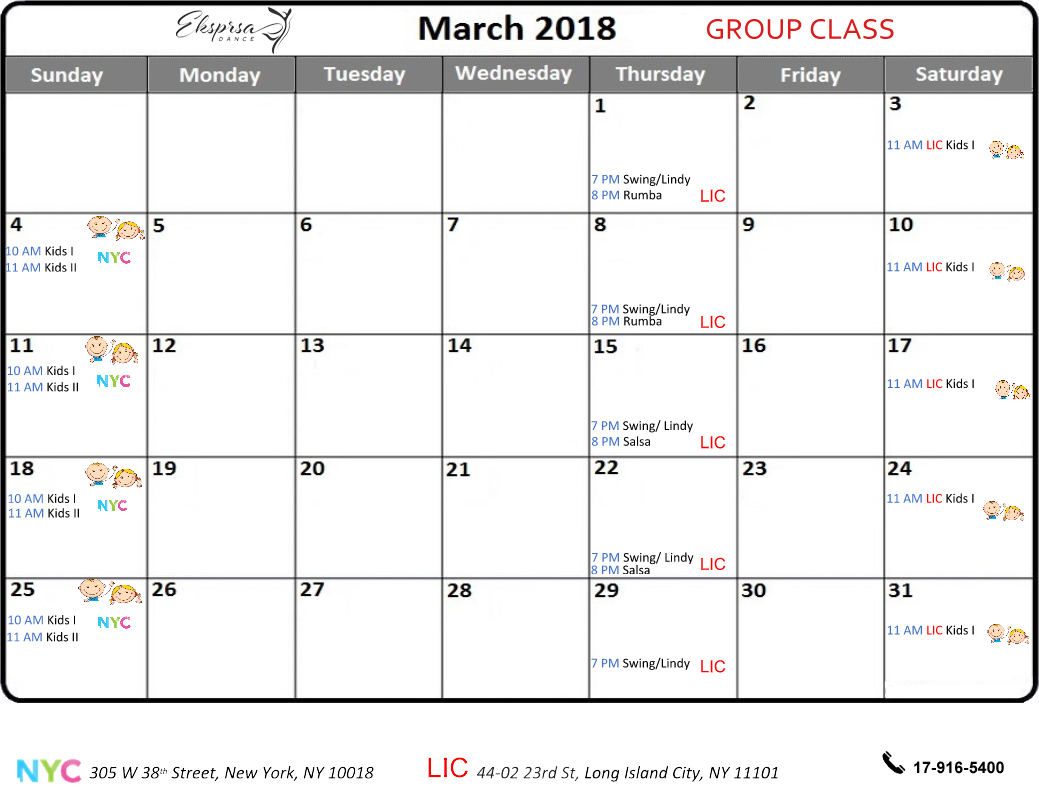
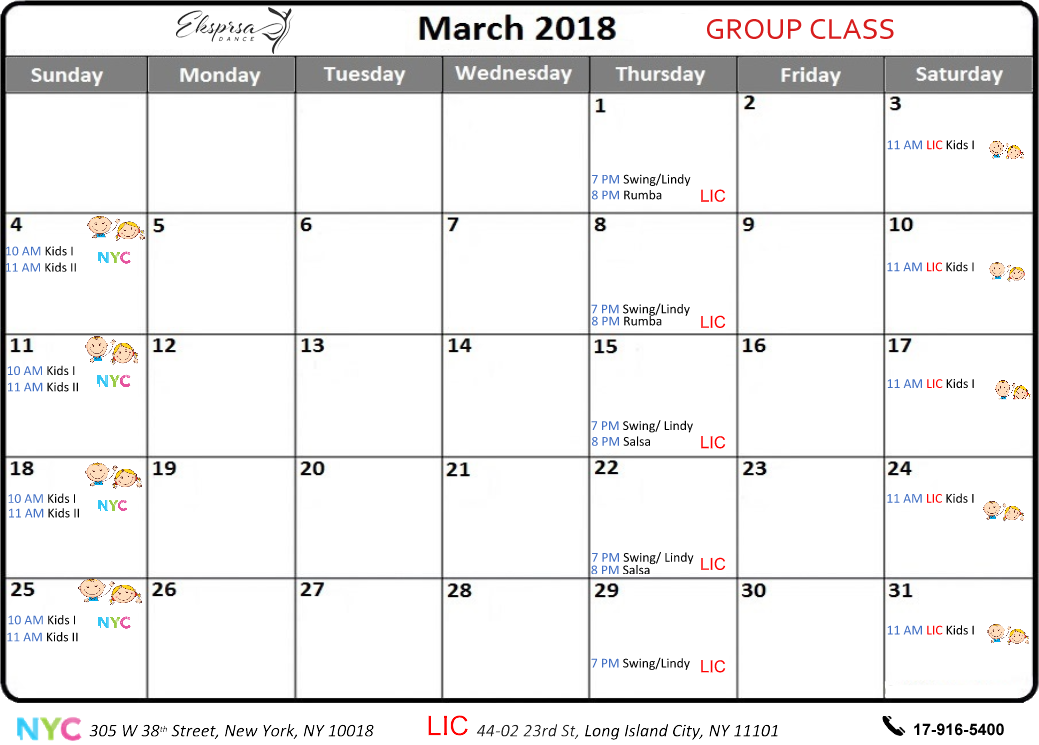
update styling and schedule sizing

Changed region(s): [[0.0, 0.2161, 1.0, 1.0], [0.0, 0.0, 1.0, 0.2161], [0.9856, 0.0, 1.0, 0.0309]]

diff --git a/docs/content/index.html b/docs/content/index.html
@@ -331,12 +331,12 @@
   <button onclick="closeSchedule()" type="button" class="close schedule-close-button mb-1">
     &times; Close Schedule
   </button>
-  <img style="max-width: 100%;" src="/images/schedule.png" />
-</section>
+  <img style="max-width: 44em; width: 100%;" src="/images/schedule.png" />
+</section> 
     </section>
 	<footer class="footer d-flex">
 	<section class="align-self-center m-auto">
-		<div class="copyright">
+		<div class="copyright text-center">
 			<span>&#169 All rights reserved Eksprsa Dance Ballroom Dance Studio, New York (2017)</span>
 		</div>
 	</section>

diff --git a/src/jekyll/content/index.html b/src/jekyll/content/index.html
@@ -296,5 +296,5 @@ permalink: /content/
   <button onclick="closeSchedule()" type="button" class="close schedule-close-button mb-1">
     &times; Close Schedule
   </button>
-  <img style="max-width: 100%;" src="{{site.baseurl}}/images/schedule.png" />
-</section>
+  <img style="max-width: 44em; width: 100%;" src="{{site.baseurl}}/images/schedule.png" />
+</section> 

diff --git a/docs/content/schedule/index.html b/docs/content/schedule/index.html
@@ -48,7 +48,7 @@
     </section>
 	<footer class="footer d-flex">
 	<section class="align-self-center m-auto">
-		<div class="copyright">
+		<div class="copyright text-center">
 			<span>&#169 All rights reserved Eksprsa Dance Ballroom Dance Studio, New York (2017)</span>
 		</div>
 	</section>

diff --git a/docs/first/post/2017/08/15/first-post.html b/docs/first/post/2017/08/15/first-post.html
@@ -56,7 +56,7 @@
 
 	<footer class="footer d-flex">
 	<section class="align-self-center m-auto">
-		<div class="copyright">
+		<div class="copyright text-center">
 			<span>&#169 All rights reserved Eksprsa Dance Ballroom Dance Studio, New York (2017)</span>
 		</div>
 	</section>

diff --git a/docs/index.html b/docs/index.html
@@ -82,7 +82,7 @@
 
 	<footer class="footer d-flex">
 	<section class="align-self-center m-auto">
-		<div class="copyright">
+		<div class="copyright text-center">
 			<span>&#169 All rights reserved Eksprsa Dance Ballroom Dance Studio, New York (2017)</span>
 		</div>
 	</section>

diff --git a/src/jekyll/_includes/footer-landing.html b/src/jekyll/_includes/footer-landing.html
@@ -1,6 +1,6 @@
 <footer class="footer d-flex">
 	<section class="align-self-center m-auto">
-		<div class="copyright">
+		<div class="copyright text-center">
 			<span>&#169 All rights reserved Eksprsa Dance Ballroom Dance Studio, New York (2017)</span>
 		</div>
 	</section>

diff --git a/src/jekyll/_includes/footer.html b/src/jekyll/_includes/footer.html
@@ -1,6 +1,6 @@
 <footer class="footer d-flex">
 	<section class="align-self-center m-auto">
-		<div class="copyright">
+		<div class="copyright text-center">
 			<span>&#169 All rights reserved Eksprsa Dance Ballroom Dance Studio, New York (2017)</span>
 		</div>
 	</section>

diff --git a/docs/css/styles.css b/docs/css/styles.css
@@ -3354,6 +3354,6 @@ header {
       transition: 0.75s all ease-in-out; } }
 
 footer {
-  min-height: 2em;
+  min-height: 2.5em;
   background: #343a40;
   color: #f8f9fa; }

diff --git a/src/scss/_footer.scss b/src/scss/_footer.scss
@@ -1,5 +1,5 @@
 footer {
-  min-height: 2em;
+  min-height: 2.5em;
   background: $gray-800;
   color: $gray-100;
 }
